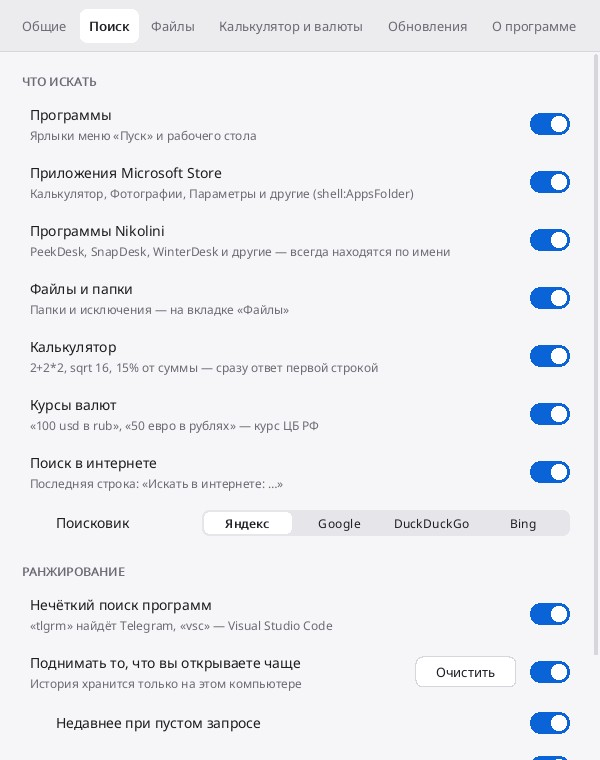
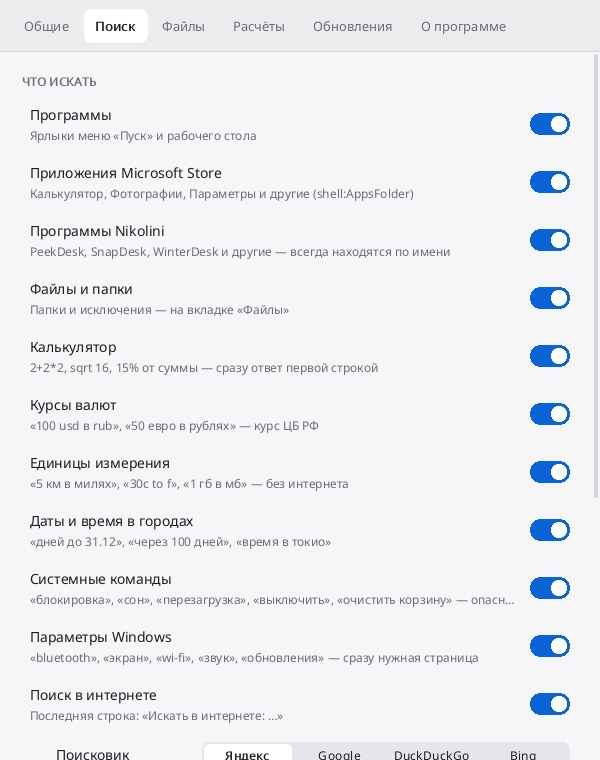
SpotDesk 1.1.0: акрил, единицы, даты и время, команды, параметры Windows, префиксы поиска

diff --git a/docs/index.html b/docs/index.html
@@ -82,7 +82,7 @@ footer{padding:36px 0 50px;color:var(--sub);font-size:14.5px;text-align:center;b
     <div>
       <img class="logo" src="assets/icon-256.png" alt="Значок SpotDesk">
       <h1>Alt+Space — и всё <span>находится сразу</span></h1>
-      <p class="lead">SpotDesk — быстрый поиск для Windows, как Spotlight в macOS. Строка посередине экрана: программы, файлы и папки, калькулятор и курсы валют ЦБ — Enter открывает, Esc прячет.</p>
+      <p class="lead">SpotDesk — быстрый поиск для Windows, как Spotlight в macOS. Строка посередине экрана: программы, файлы и папки, калькулятор, курсы валют ЦБ, единицы, время в городах, команды и параметры Windows — Enter открывает, Esc прячет.</p>
       <a class="btn dl" href="https://github.com/NikoliniOFF/SpotDesk/releases/latest/download/SpotDesk-win64.zip" download="SpotDesk-win64.zip">
         <svg viewBox="0 0 24 24" fill="none" stroke="currentColor" stroke-width="2.2" stroke-linecap="round" stroke-linejoin="round"><path d="M12 3v12m0 0-5-5m5 5 5-5M4 19h16"/></svg>
         Скачать SpotDesk
@@ -103,21 +103,29 @@ footer{padding:36px 0 50px;color:var(--sub);font-size:14.5px;text-align:center;b
       <div class="card"><div class="ic">📁</div><h3>Файлы и папки</h3><p>Свой индекс имён, как в Everything: строится в фоне с низким приоритетом и обновляется сам. По желанию — весь диск NTFS за секунды.</p></div>
       <div class="card"><div class="ic">🧮</div><h3>Калькулятор</h3><p>«2+2*2», «sqrt 16», «2^10», «15% от 3000» — ответ первой строкой, Enter копирует его в буфер.</p></div>
       <div class="card"><div class="ic">💱</div><h3>Курсы валют</h3><p>«100 usd в rub», «50 евро в рублях», «курс юаня» — по официальному курсу ЦБ РФ на сегодня. В сеть — только когда нужно.</p></div>
+      <div class="card"><div class="ic">📏</div><h3>Единицы измерения</h3><p>«5 км в милях», «30c to f», «10 фунтов в кг», «1 гб в мб», «100 км/ч», «10 соток в м2» — без интернета.</p></div>
+      <div class="card"><div class="ic">🕒</div><h3>Даты и время</h3><p>«время в токио», «дней до нового года», «через 100 дней», «сегодня». Больше 70 городов по часовым поясам Windows.</p></div>
+      <div class="card"><div class="ic">⏻</div><h3>Команды</h3><p>«блокировка», «сон», «перезагрузка», «выключить», «очистить корзину». Опасные — только после второго Enter.</p></div>
+      <div class="card"><div class="ic">⚙</div><h3>Параметры Windows</h3><p>«bluetooth», «экран», «wi-fi», «звук», «обновления», «автозагрузка» — сразу нужная страница.</p></div>
       <div class="card"><div class="ic">⌨</div><h3>С клавиатуры</h3><p>↑↓ — выбор, Enter — открыть, Ctrl+Enter — показать в папке, Shift+Enter — от администратора, Tab — дополнить.</p></div>
-      <div class="card"><div class="ic">🌐</div><h3>Поиск в интернете</h3><p>Не нашлось на компьютере — последняя строка ищет в Яндексе, Google, DuckDuckGo или Bing.</p></div>
+      <div class="card"><div class="ic">🌐</div><h3>Поиск в интернете</h3><p>Не нашлось на компьютере — последняя строка ищет в Яндексе, Google, DuckDuckGo или Bing. Префиксы: «g …», «я …», «yt …», «вики …».</p></div>
       <div class="card"><div class="ic">⚡</div><h3>Лёгкая</h3><p>Панель появляется мгновенно, а в простое не тратит процессор: ни опросов, ни хуков клавиатуры.</p></div>
       <div class="card"><div class="ic">🎛</div><h3>Всё отключается</h3><p>У каждой функции свой переключатель, горячая клавиша меняется. Если Alt+Space занято — SpotDesk предупредит.</p></div>
-      <div class="card"><div class="ic">🌗</div><h3>Светлая и тёмная</h3><p>Следует теме Windows или выбирается вручную. Панель появляется и гаснет плавно.</p></div>
+      <div class="card"><div class="ic">🌗</div><h3>Светлая и тёмная</h3><p>Следует теме Windows или выбирается вручную. По желанию — полупрозрачный фон: акрил в Windows 11, размытие в Windows 10.</p></div>
     </div>
   </section>
 
   <section id="shots">
-    <h2>Как это выглядит</h2><p class="sub">Настоящие снимки SpotDesk 1.0.1</p>
+    <h2>Как это выглядит</h2><p class="sub">Настоящие снимки SpotDesk 1.1.0</p>
     <div class="gal">
       <figure><img src="assets/media/bar-dark.jpg" alt="Тёмная тема: папки, файлы и программы" width="760" height="560" loading="lazy"><figcaption>Программы, папки и файлы в одном списке</figcaption></figure>
       <figure><img src="assets/media/files.jpg" alt="Поиск файлов" width="760" height="380" loading="lazy"><figcaption>Файлы — по имени, как в Everything</figcaption></figure>
       <figure><img src="assets/media/calc.jpg" alt="Калькулятор" width="760" height="300" loading="lazy"><figcaption>Калькулятор: ответ первой строкой</figcaption></figure>
       <figure><img src="assets/media/currency.jpg" alt="Курс валют" width="760" height="300" loading="lazy"><figcaption>Курсы валют ЦБ РФ на сегодня</figcaption></figure>
+      <figure><img src="assets/media/units.jpg" alt="Перевод единиц" width="760" height="300" loading="lazy"><figcaption>Единицы: «5 км в милях»</figcaption></figure>
+      <figure><img src="assets/media/time.jpg" alt="Время в другом городе" width="760" height="300" loading="lazy"><figcaption>Время в городах: «время в токио»</figcaption></figure>
+      <figure><img src="assets/media/commands.jpg" alt="Команды Windows" width="760" height="350" loading="lazy"><figcaption>Команды: выключить, перезагрузить, сон</figcaption></figure>
+      <figure><img src="assets/media/winsettings.jpg" alt="Параметры Windows" width="760" height="300" loading="lazy"><figcaption>Параметры Windows по слову</figcaption></figure>
       <figure><img src="assets/media/settings.jpg" alt="Настройки: что искать" width="600" height="760" loading="lazy"><figcaption>Настройки: что искать</figcaption></figure>
       <figure><img src="assets/media/settings-dark.jpg" alt="Настройки: индекс файлов в тёмной теме" width="600" height="760" loading="lazy"><figcaption>Индекс файлов и быстрый режим NTFS</figcaption></figure>
     </div>
@@ -139,7 +147,7 @@ footer{padding:36px 0 50px;color:var(--sub);font-size:14.5px;text-align:center;b
     <table class="keys">
       <tr><td><kbd>Alt</kbd>+<kbd>Space</kbd></td><td>открыть или спрятать поиск</td></tr>
       <tr><td><kbd>↑</kbd> <kbd>↓</kbd> · <kbd>PgUp</kbd> <kbd>PgDn</kbd></td><td>выбрать строку</td></tr>
-      <tr><td><kbd>Enter</kbd></td><td>открыть; для расчёта и курса — скопировать ответ</td></tr>
+      <tr><td><kbd>Enter</kbd></td><td>открыть; для расчёта, курса, единиц и дат — скопировать ответ; выключение и перезагрузка — дважды</td></tr>
       <tr><td><kbd>Ctrl</kbd>+<kbd>Enter</kbd></td><td>показать файл в папке</td></tr>
       <tr><td><kbd>Shift</kbd>+<kbd>Enter</kbd></td><td>запустить от имени администратора</td></tr>
       <tr><td><kbd>Tab</kbd></td><td>дополнить запрос</td></tr>
@@ -151,6 +159,7 @@ footer{padding:36px 0 50px;color:var(--sub);font-size:14.5px;text-align:center;b
     <h2>Вопросы</h2>
     <details><summary>Windows пишет «Система Windows защитила ваш компьютер»</summary><p>Это фильтр SmartScreen: программа новая и не подписана платным сертификатом. Нажмите «Подробнее» → «Выполнить в любом случае». Скачивайте SpotDesk только со <a href="https://github.com/NikoliniOFF/SpotDesk/releases">страницы выпусков</a> — рядом с архивом лежит файл .sha256.</p></details>
     <details><summary>Alt+Space не срабатывает</summary><p>Сочетание может быть занято PowerToys Run или другой программой. Откройте настройки и выберите другое, например Ctrl+Space или Win+Space.</p></details>
+    <details><summary>Полупрозрачный фон не включается</summary><p>Включите его в «Настройки → Общие → Полупрозрачный фон» и проверьте, что в Windows включены «Эффекты прозрачности» (Параметры → Персонализация → Цвета). В режиме экономии заряда Windows сама делает фон сплошным.</p></details>
     <details><summary>Не будет ли тормозить компьютер?</summary><p>Нет. В простое SpotDesk ничего не опрашивает, индекс строится в фоне с низким приоритетом и обновляется по уведомлениям Windows.</p></details>
     <details><summary>Почему не находятся файлы с диска D:?</summary><p>По умолчанию индексируются папки пользователя. Добавьте нужные папки во вкладке «Файлы» или включите «Быстрый индекс NTFS» (нужен запуск от имени администратора).</p></details>
     <details><summary>Программа что-нибудь собирает или отправляет?</summary><p>Нет. Индекс и история остаются на вашем компьютере. В интернет — только проверка обновлений и списка программ Nikolini на GitHub и курсы ЦБ РФ, когда вы пересчитываете валюту.</p></details>

diff --git a/release-notes/v1.1.0.md b/release-notes/v1.1.0.md
@@ -1,0 +1,27 @@
+## 🔎 SpotDesk для Windows 1.1.0
+
+**Скачать:** `SpotDesk-1.1.0-win64.zip` ниже (или постоянная ссылка `SpotDesk-win64.zip`). Распакуйте и запустите `SpotDesk.exe`. Если SpotDesk уже установлен, он сам предложит обновиться.
+
+### Что нового
+- Полупрозрачный фон (акрил) теперь работает: в Windows 11 — настоящий акрил, в Windows 10 — размытие
+- Перевод единиц: «5 км в милях», «30c to f», «10 фунтов в кг», «1 гб в мб», «100 км/ч»
+- Даты и время: «дней до нового года», «через 100 дней», «время в токио», «сегодня»
+- Команды: «блокировка», «сон», «перезагрузка», «выключить», «очистить корзину» — опасные спрашивают подтверждение
+- Параметры Windows по слову: «bluetooth», «экран», «wi-fi», «звук», «обновления»
+- Быстрый поиск: «g …» — Google, «я …» — Яндекс, «yt …» — YouTube, «вики …» — Википедия
+
+### Подробнее
+- **Акрил.** Раньше Windows просто не включала его для окна без заголовка, поэтому фон оставался сплошным. Теперь окно поиска устроено так, как Windows ожидает, а на Windows 10 и ранних сборках Windows 11 используется размытие. Если в Windows выключены «Эффекты прозрачности» (Параметры → Персонализация → Цвета), фон остаётся сплошным, как у самой Windows. Переключатель — «Настройки → Общие → Полупрозрачный фон». С акрилом панель появляется без плавного проявления (так устроена Windows).
+- **Единицы** — длина, вес, температура, площадь (в том числе сотки и гектары), объём, скорость, размеры файлов и время. Можно писать по-русски и по-английски. Enter копирует ответ.
+- **Время в городах** — больше 70 городов и стран (Москва, Екатеринбург, Новосибирск, Владивосток, Минск, Алматы, Ташкент, Стамбул, Дубай, Лондон, Берлин, Нью-Йорк, Токио и другие). Считается по часовым поясам Windows, без интернета, с разницей «на 6 ч больше, чем у вас».
+- **Команды** перезагрузки, выключения, выхода из учётной записи и очистки корзины выполняются только после второго нажатия Enter (Esc — отмена).
+- У каждой новой функции свой переключатель в настройках (вкладки «Поиск» и «Расчёты»). Всё работает на компьютере, ничего никуда не отправляется.
+- Во «Других программах от Nikolini» — новые значки и описания (встроенная копия на случай, если нет интернета).
+
+### Если Windows предупреждает
+SmartScreen может показать «Система Windows защитила ваш компьютер» — нажмите «Подробнее» → «Выполнить в любом случае».
+
+**Требования:** Windows 10 или 11, 64-бит.
+
+<!-- publish_release.sh сам допишет строку «SHA256 (SpotDesk-1.1.0-win64.zip): …» — её читает автообновление. -->
+<!-- Первые пункты «Что нового» показываются в окне обновления (до 6 пунктов). -->
